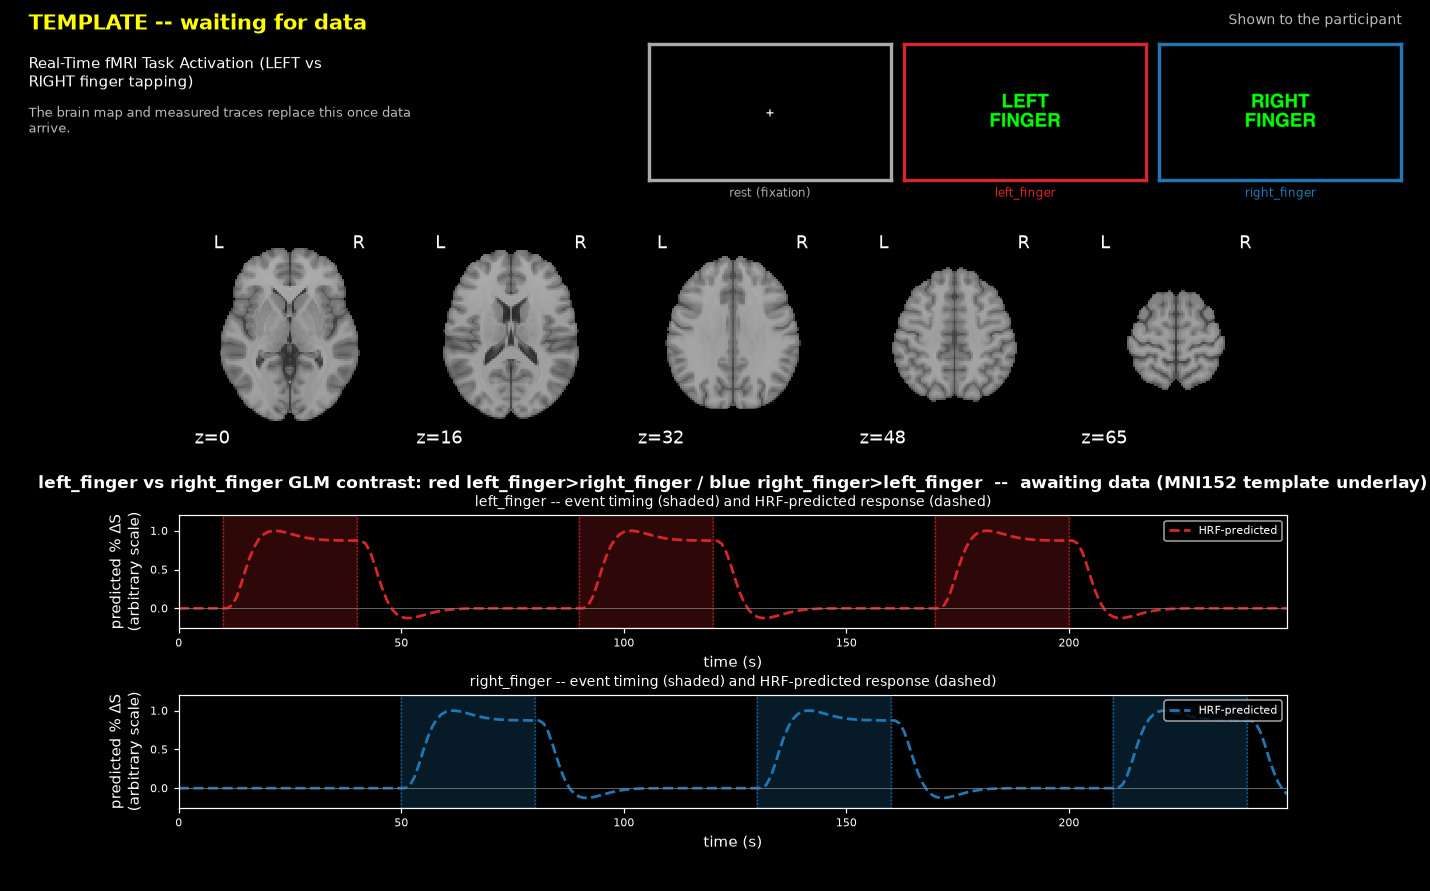
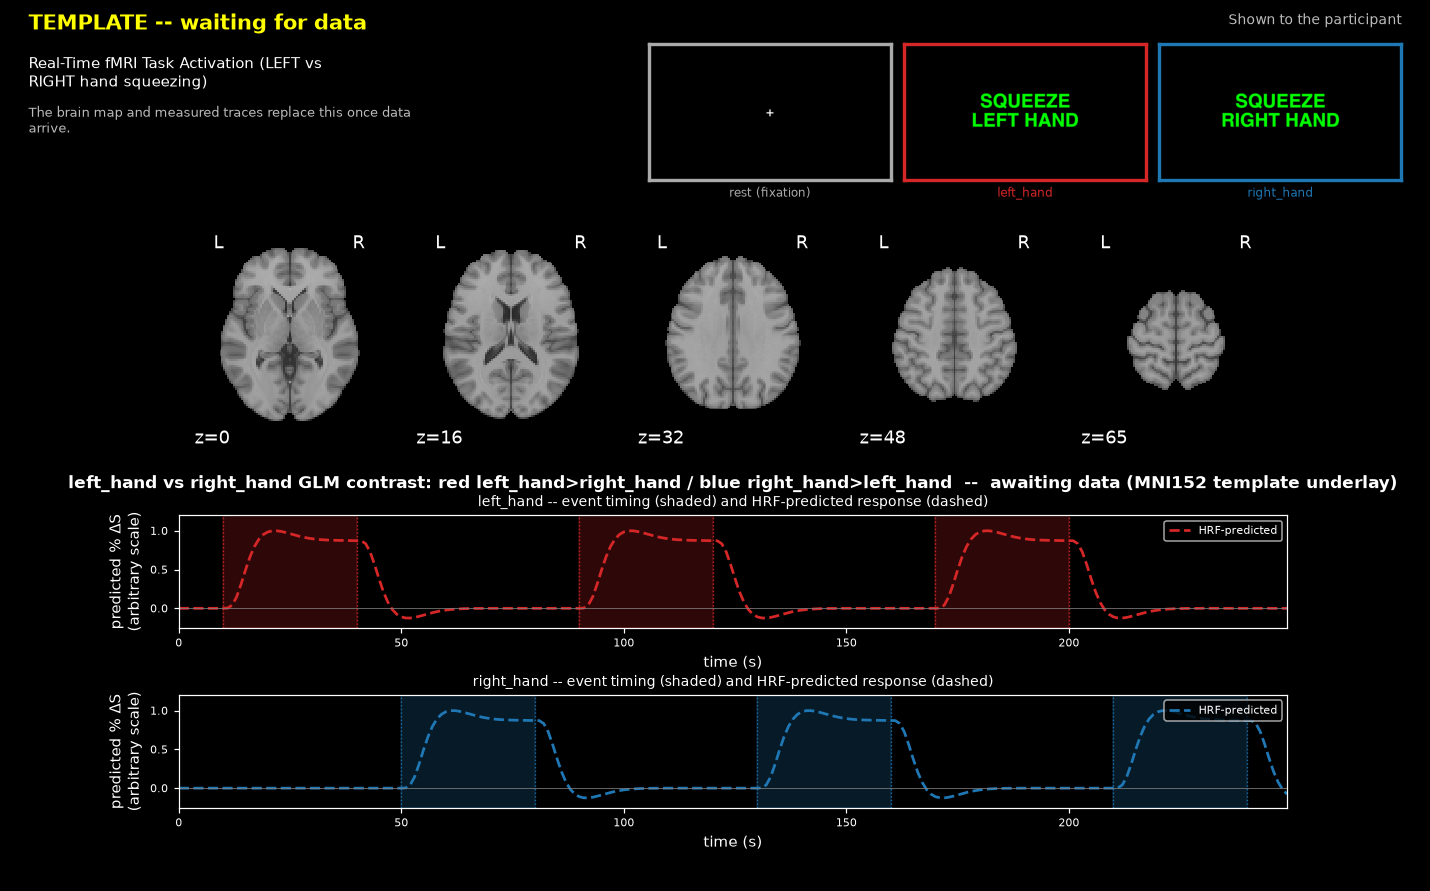
Motor task becomes hand squeezing; checkerboard 2 Hz + fixation wording; run_battery names/end screen
Motor task -> LEFT/RIGHT hand squeezing (stimuli_ptb/motor_task.m,
stimuli/generic_motor_task.py):
- On-screen cues are now "SQUEEZE LEFT HAND" / "SQUEEZE RIGHT HAND" (were
  "LEFT FINGER" / "RIGHT FINGER").
- Instructions rewritten: squeeze the indicated hand into a fist like a
  stress ball, then relax it, repeatedly, for as long as the cue stays on
  screen; relax when the + fixation cross shows. Title is now "LEFT/RIGHT
  HAND SQUEEZING TASK" (the old "FINGER TAPPING" title would contradict the
  body). The other tasks' instruction titles are unchanged.
- Docs/config descriptions updated to match (README.md, quickstart.sh,
  run_task.py, conf/motor.toml, stimuli*/README.md, obsolete/README.md).

Internal condition names renamed left_finger/right_finger ->
left_hand/right_hand: the trial_type column in
study_design/GenericMotorLR_events.tsv, glmCondA/glmCondB in
conf/motor.toml, both stimulus scripts' cue lookups, the snapshot
generator/template builder, and the two motor snapshot filenames. Verified
every event type has a cue in both toolkits' scripts, the design classifies
as interest=[left_hand, right_hand] with no covariates, and the mock scanner
reports condA=left_hand condB=right_hand. Live plot labels and template
trace titles now read left_hand/right_hand. (Untracked scratch files that
still use the old names are intentionally untouched.)

checkerboard_1cond instructions (stimuli_ptb/checkerboard_1cond_task.m,
[…]

diff --git a/taskActivation/stimuli_ptb/run_battery.m b/taskActivation/stimuli_ptb/run_battery.m
@@ -27,15 +27,21 @@ function run_battery(tasks, varargin)
 %     'SkipSyncTests'  true to disable PTB's flip-timing sync tests, for
 %                      testing on a non-research display (default false)
 %     'StagingMessage' sprintf template for the between-tasks screen, with
-%                      one %s for the upcoming task's name (default:
-%                      'Up next: %s (i of N)\n\nExperimenter: press SPACE
-%                      to continue.').
+%                      one %s for the upcoming task's participant-facing name
+%                      (see display_name() at the bottom of this file:
+%                      'Visual Perception Task' for the checkerboard tasks,
+%                      'Voluntary Movement Task' for motor_task, 'Blackjack
+%                      Game' for blackjack_task) (default: 'Up next: %s
+%                      (i of N)\n\nExperimenter: press SPACE to continue.').
 %
 %   Shows the staging screen BEFORE every task, including the first -- so
 %   the experimenter always has a controlled moment to hit SPACE right
 %   before a task starts, rather than it auto-starting the instant
 %   run_battery is called. Escape at any staging screen stops the whole
-%   battery early (the already-open window is still closed cleanly). The
+%   battery early (the already-open window is still closed cleanly). After
+%   the LAST task, an end screen -- "All tasks complete. Experimenter: press
+%   SPACE to exit." -- holds until SPACE (or Escape) is pressed, then the
+%   window closes; it is not shown when the battery is stopped early. The
 %   window itself is opened ONCE at the start and closed ONCE at the end
 %   (or on an aborted battery/any error), never in between -- that's the
 %   whole point of this script over calling each task function directly.
@@ -73,13 +79,14 @@ function run_battery(tasks, varargin)
     for i = 1:numel(tasks)
         fn = tasks{i}{1};
         args = tasks{i}{2};
-        taskName = func2str(fn);
+        taskName = func2str(fn);           % function name -- used in the console log lines
+        shownName = display_name(taskName);   % participant-facing name -- used on the staging screen
 
         if isempty(opt.StagingMessage)
             msg = sprintf('Up next: %s  (%d of %d)\n\nExperimenter: press SPACE to continue.', ...
-                taskName, i, numel(tasks));
+                shownName, i, numel(tasks));
         else
-            msg = sprintf(opt.StagingMessage, taskName);
+            msg = sprintf(opt.StagingMessage, shownName);
         end
         if ptb_show_staging_screen(win, msg)
             fprintf('[run_battery] stopped before task %d/%d (%s).\n', i, numel(tasks), taskName);
@@ -90,9 +97,31 @@ function run_battery(tasks, varargin)
         fn(args{:}, 'Win', win);
     end
 
+    % end screen -- held until the experimenter presses SPACE, so the display (and
+    % the last task's screen) doesn't vanish the instant the final task ends
+    ptb_show_staging_screen(win, sprintf('All tasks complete.\n\nExperimenter: press SPACE to exit.'));
+
     plural = '';
     if numel(tasks) ~= 1
         plural = 's';
     end
     fprintf('[run_battery] battery complete (%d task%s).\n', numel(tasks), plural);
+end
+
+
+function name = display_name(fnName)
+%DISPLAY_NAME Participant-facing name for a task function, shown on the
+%   staging screen instead of the raw function name. To rename a task, or add
+%   a new one, edit the cases below; anything not listed falls back to its
+%   function name.
+    switch fnName
+        case {'checkerboard_1cond_task', 'checkerboard_2cond_task', 'checkerboard_3cond_task'}
+            name = 'Visual Perception Task';
+        case 'motor_task'
+            name = 'Voluntary Movement Task';
+        case 'blackjack_task'
+            name = 'Blackjack Game';
+        otherwise
+            name = fnName;
+    end
 end

diff --git a/taskActivation/stimuli/generic_motor_task.py b/taskActivation/stimuli/generic_motor_task.py
@@ -1,16 +1,17 @@
 #!/usr/bin/env python3
 """-----------------------------------------------------------------------------
 generic_motor_task.py -- simple PsychoPy presentation of this project's own
-LEFT/RIGHT finger-tapping design (study_design/GenericMotorLR_events.tsv,
+LEFT/RIGHT hand-squeezing design (study_design/GenericMotorLR_events.tsv,
 the same file taskActivation.py's live analysis reads via conf/motor.toml),
 so this project's motor task can be run end-to-end with a real (or
 self-triggered) task on the stimulus computer. The Psychtoolbox equivalent
 is stimuli_ptb/motor_task.m -- both present the exact same events.tsv.
 
-Blocks: 30s LEFT FINGER / RIGHT FINGER tapping blocks separated by 10s REST
+Blocks: 30s SQUEEZE LEFT HAND / SQUEEZE RIGHT HAND blocks (squeeze the hand into
+a fist and relax it repeatedly, like squeezing a stress ball) separated by 10s REST
 blocks (3 reps each + a trailing rest block, 250s total) -- exactly
-matching taskActivation.py's GLM design (glmCondA=left_finger,
-glmCondB=right_finger). Unlike the original 5-condition HCP dataset (now
+matching taskActivation.py's GLM design (glmCondA=left_hand,
+glmCondB=right_hand). Unlike the original 5-condition HCP dataset (now
 archived in obsolete/stimuli/hcp_motor_task.py), there are no "_cue"
 get-ready periods here -- rest between blocks
 doubles as the get-ready period.
@@ -32,9 +33,9 @@ import common
 HERE = os.path.dirname(os.path.realpath(__file__))
 DEFAULT_EVENTS = os.path.join(common.PROJECT_ROOT, 'study_design', 'GenericMotorLR_events.tsv')
 
-FINGER_LABELS = {
-    'left_finger': 'LEFT\nFINGER',
-    'right_finger': 'RIGHT\nFINGER',
+CUE_LABELS = {
+    'left_hand': 'SQUEEZE\nLEFT HAND',
+    'right_hand': 'SQUEEZE\nRIGHT HAND',
 }
 
 
@@ -44,14 +45,14 @@ def build_stims(win):
     text/geometry each time."""
     from psychopy import visual
     stims = {}
-    for key, label in FINGER_LABELS.items():
+    for key, label in CUE_LABELS.items():
         stims[key] = visual.TextStim(win, text=label, color='lime', bold=True, height=0.14)
     fixation = visual.TextStim(win, text='+', color='white', height=0.1)
     return stims, fixation
 
 
 def main():
-    ap = argparse.ArgumentParser(description='Present the LEFT/RIGHT finger-tapping task (PsychoPy).')
+    ap = argparse.ArgumentParser(description='Present the LEFT/RIGHT hand-squeezing task (PsychoPy).')
     ap.add_argument('--events', default=DEFAULT_EVENTS, help='events.tsv to present')
     ap.add_argument('--trigger-key', default='5,t',
                     help="comma-separated key(s) that start the run (scanner sync pulse, "
@@ -81,11 +82,13 @@ def main():
         return stims.get(trial_type, fixation)
 
     instructions = (
-        "LEFT/RIGHT FINGER TAPPING TASK\n\n"
-        "When you see LEFT FINGER, repeatedly tap your left thumb and index finger "
-        "together. When you see RIGHT FINGER, do the same with your right thumb and "
-        "index finger. During the + fixation cross, relax and stay still.\n\n"
-        "Goal: keep tapping steadily for the whole block shown, using the correct hand.\n\n"
+        "LEFT/RIGHT HAND SQUEEZING TASK\n\n"
+        "When you see SQUEEZE LEFT HAND, squeeze your left hand into a fist, like you "
+        "are squeezing a stress ball, then relax it. Keep squeezing and relaxing "
+        "repeatedly for as long as the cue stays on the screen. When you see SQUEEZE "
+        "RIGHT HAND, do the same with your right hand. When you see the + fixation "
+        "cross, relax your hands and stay still.\n\n"
+        "Goal: squeeze and relax steadily for the whole block shown, using the correct hand.\n\n"
         "If you have any questions, ask the experimenter now. When you are "
         "comfortable, press any button to continue.")
     if common.show_instructions(win, instructions):

diff --git a/taskActivation/stimuli_ptb/motor_task.m b/taskActivation/stimuli_ptb/motor_task.m
@@ -1,14 +1,15 @@
 function motor_task(varargin)
-%MOTOR_TASK Psychtoolbox presentation of a simple L/R-finger motor task.
+%MOTOR_TASK Psychtoolbox presentation of a simple L/R-hand squeezing task.
 %   MOTOR_TASK() shows a brief task-instructions screen (dismiss with 1/2,
 %   or Escape to abort), waits for the scanner trigger, then presents alternating
-%   30-second LEFT FINGER / RIGHT FINGER tapping blocks separated by 10s
+%   30-second SQUEEZE LEFT HAND / SQUEEZE RIGHT HAND blocks (squeeze the hand
+%   into a fist and relax it, repeatedly, like squeezing a stress ball) separated by 10s
 %   REST blocks (../study_design/GenericMotorLR_events.tsv: rest,
-%   left_finger, rest, right_finger, x3, + a trailing rest block -- 13
+%   left_hand, rest, right_hand, x3, + a trailing rest block -- 13
 %   blocks, 250s total). Matches this project's real-time GLM contrast
 %   convention: point
 %   taskActivation.toml's eventsFile at GenericMotorLR_events.tsv and set
-%   glmCondA='left_finger', glmCondB='right_finger' to analyze it live.
+%   glmCondA='left_hand', glmCondB='right_hand' to analyze it live.
 %
 %   Name-value options (all optional):
 %     'TriggerKey'    cellstr of trigger keys (default {'5','5%','t'} -- '5%'
@@ -76,7 +77,7 @@ function motor_task(varargin)
                          % closing it is the caller's job, not this task's
     end
 
-    labels = struct('left_finger', 'LEFT\nFINGER', 'right_finger', 'RIGHT\nFINGER');
+    labels = struct('left_hand', 'SQUEEZE\nLEFT HAND', 'right_hand', 'SQUEEZE\nRIGHT HAND');
 
     function stimFor(win, trialType, ~, ~)
         if isfield(labels, trialType)
@@ -86,11 +87,13 @@ function motor_task(varargin)
         end
     end
 
-    instructions = ['LEFT/RIGHT FINGER TAPPING TASK\n\n' ...
-        'When you see LEFT FINGER, repeatedly tap your left thumb and index finger ' ...
-        'together. When you see RIGHT FINGER, do the same with your right thumb and ' ...
-        'index finger. During the + fixation cross, relax and stay still.\n\n' ...
-        'Goal: keep tapping steadily for the whole block shown, using the correct hand.\n\n' ...
+    instructions = ['LEFT/RIGHT HAND SQUEEZING TASK\n\n' ...
+        'When you see SQUEEZE LEFT HAND, squeeze your left hand into a fist, like you ' ...
+        'are squeezing a stress ball, then relax it. Keep squeezing and relaxing ' ...
+        'repeatedly for as long as the cue stays on the screen. When you see SQUEEZE ' ...
+        'RIGHT HAND, do the same with your right hand. When you see the + fixation ' ...
+        'cross, relax your hands and stay still.\n\n' ...
+        'Goal: squeeze and relax steadily for the whole block shown, using the correct hand.\n\n' ...
         'If you have any questions, ask the experimenter now. When you are ' ...
         'comfortable, press any button to continue.'];
     if ptb_show_instructions(win, instructions)

diff --git a/taskActivation/stimuli_ptb/checkerboard_1cond_task.m b/taskActivation/stimuli_ptb/checkerboard_1cond_task.m
@@ -20,7 +20,7 @@ function checkerboard_1cond_task(varargin)
 %     'Duration'      total run length in seconds (default: end of the last
 %                     event); pass nVols*TR to also show trailing rest
 %     'FlickerHz'     how many times per second the checkerboard's state
-%                     changes during ON blocks (default 8): the sequence is
+%                     changes during ON blocks (default 2): the sequence is
 %                     OFF (blank) -> ON (pattern A) -> OFF -> ON (pattern B,
 %                     the black<->white inverse of A) -> repeat, each state
 %                     lasting 1/FlickerHz -- so the same screen location
@@ -54,7 +54,7 @@ function checkerboard_1cond_task(varargin)
     addParameter(p, 'TriggerKey', {'5', '5%', 't'});
     addParameter(p, 'EventsFile', fullfile(here, '..', 'study_design', 'Checkerboard1Cond_events.tsv'));
     addParameter(p, 'Duration', []);
-    addParameter(p, 'FlickerHz', 8);
+    addParameter(p, 'FlickerHz', 2);
     addParameter(p, 'Windowed', false);
     addParameter(p, 'ScreenWidth', []);
     addParameter(p, 'ScreenHeight', []);
@@ -125,9 +125,12 @@ function checkerboard_1cond_task(varargin)
     instructions = ['CHECKERBOARD VIEWING TASK\n\n' ...
         'You will see a flickering black-and-white checkerboard pattern, alternating ' ...
         'with a plain + fixation cross.\n\n' ...
-        'Goal: simply keep your eyes open and look at the checkerboard while it is ' ...
-        'on screen, and rest your eyes on the + cross in between. No response or ' ...
-        'button press is needed during the task -- just watch and stay still.\n\n' ...
+        'Goal: keep your eyes fixed on the CENTER of the screen THE WHOLE TIME -- on ' ...
+        'the + cross when it is showing, and on the center of the checkerboard while ' ...
+        'it is on screen. Do not let your eyes wander around the checkerboard or look ' ...
+        'away from the center, even though the pattern is flickering. No response or ' ...
+        'button press is needed during the task -- just keep your eyes on the center ' ...
+        'and stay still.\n\n' ...
         'If you have any questions, ask the experimenter now. When you are ' ...
         'comfortable, press any button to continue.'];
     if ptb_show_instructions(win, instructions)

diff --git a/taskActivation/stimuli/checkerboard_1cond_task.py b/taskActivation/stimuli/checkerboard_1cond_task.py
@@ -75,9 +75,9 @@ def main():
     ap.add_argument('--duration', type=float, default=None,
                     help='total run length in seconds (default: end of the last event); '
                          'pass nVols*TR to also show trailing rest')
-    ap.add_argument('--flicker-hz', type=float, default=8.0,
+    ap.add_argument('--flicker-hz', type=float, default=2.0,
                     help='how many times per second the checkerboard changes state during ON '
-                         'blocks (default 8): OFF (blank) -> ON (pattern A) -> OFF -> ON '
+                         'blocks (default 2): OFF (blank) -> ON (pattern A) -> OFF -> ON '
                          '(pattern B, the black<->white inverse of A) -> repeat, each state '
                          'lasting 1/flicker_hz -- so the same screen location genuinely goes '
                          'black, then white, then black, rather than swapping directly between '
@@ -121,9 +121,12 @@ def main():
         "CHECKERBOARD VIEWING TASK\n\n"
         "You will see a flickering black-and-white checkerboard pattern, alternating "
         "with a plain + fixation cross.\n\n"
-        "Goal: simply keep your eyes open and look at the checkerboard while it is "
-        "on screen, and rest your eyes on the + cross in between. No response or "
-        "button press is needed during the task -- just watch and stay still.\n\n"
+        "Goal: keep your eyes fixed on the CENTER of the screen THE WHOLE TIME -- on "
+        "the + cross when it is showing, and on the center of the checkerboard while "
+        "it is on screen. Do not let your eyes wander around the checkerboard or look "
+        "away from the center, even though the pattern is flickering. No response or "
+        "button press is needed during the task -- just keep your eyes on the center "
+        "and stay still.\n\n"
         "If you have any questions, ask the experimenter now. When you are "
         "comfortable, press any button to continue.")
     if common.show_instructions(win, instructions):

diff --git a/taskActivation/stimuli_ptb/checkerboard_3cond_task.m b/taskActivation/stimuli_ptb/checkerboard_3cond_task.m
@@ -33,7 +33,7 @@ function checkerboard_3cond_task(varargin)
 %     'Duration'      total run length in seconds (default: end of the last
 %                     event); pass nVols*TR to also show trailing rest
 %     'FlickerHz'     how many times per second the checkerboard's state
-%                     changes during a CENTER/LEFT/RIGHT block (default 8):
+%                     changes during a CENTER/LEFT/RIGHT block (default 2):
 %                     OFF (blank) -> ON (pattern A) -> OFF -> ON (pattern
 %                     B, the black<->white inverse of A) -> repeat, each
 %                     state lasting 1/FlickerHz -- same semantics as
@@ -65,7 +65,7 @@ function checkerboard_3cond_task(varargin)
     addParameter(p, 'TriggerKey', {'5', '5%', 't'});
     addParameter(p, 'EventsFile', fullfile(here, '..', 'study_design', 'Checkerboard3Cond_events.tsv'));
     addParameter(p, 'Duration', []);
-    addParameter(p, 'FlickerHz', 8);
+    addParameter(p, 'FlickerHz', 2);
     addParameter(p, 'Windowed', false);
     addParameter(p, 'ScreenWidth', []);
     addParameter(p, 'ScreenHeight', []);

diff --git a/taskActivation/stimuli_ptb/checkerboard_2cond_task.m b/taskActivation/stimuli_ptb/checkerboard_2cond_task.m
@@ -35,7 +35,7 @@ function checkerboard_2cond_task(varargin)
 %     'Duration'      total run length in seconds (default: end of the last
 %                     event); pass nVols*TR to also show trailing rest
 %     'FlickerHz'     how many times per second the checkerboard's state
-%                     changes during a LEFT/RIGHT block (default 8): OFF
+%                     changes during a LEFT/RIGHT block (default 2): OFF
 %                     (blank) -> ON (pattern A) -> OFF -> ON (pattern B,
 %                     the black<->white inverse of A) -> repeat, each
 %                     state lasting 1/FlickerHz -- same semantics as
@@ -67,7 +67,7 @@ function checkerboard_2cond_task(varargin)
     addParameter(p, 'TriggerKey', {'5', '5%', 't'});
     addParameter(p, 'EventsFile', fullfile(here, '..', 'study_design', 'Checkerboard2Cond_events.tsv'));
     addParameter(p, 'Duration', []);
-    addParameter(p, 'FlickerHz', 8);
+    addParameter(p, 'FlickerHz', 2);
     addParameter(p, 'Windowed', false);
     addParameter(p, 'ScreenWidth', []);
     addParameter(p, 'ScreenHeight', []);

diff --git a/taskActivation/stimuli/checkerboard_3cond_task.py b/taskActivation/stimuli/checkerboard_3cond_task.py
@@ -132,9 +132,9 @@ def main():
     ap.add_argument('--duration', type=float, default=None,
                     help='total run length in seconds (default: end of the last event); '
                          'pass nVols*TR to also show trailing rest')
-    ap.add_argument('--flicker-hz', type=float, default=8.0,
+    ap.add_argument('--flicker-hz', type=float, default=2.0,
                     help='how many times per second the checkerboard changes state during a '
-                         'CENTER/LEFT/RIGHT block (default 8): OFF (blank) -> ON (pattern A) -> '
+                         'CENTER/LEFT/RIGHT block (default 2): OFF (blank) -> ON (pattern A) -> '
                          'OFF -> ON (pattern B, the black<->white inverse of A) -> repeat, each '
                          'state lasting 1/flicker_hz -- same semantics as checkerboard_1cond_task.py')
     ap.add_argument('--windowed', action='store_true', help='windowed instead of fullscreen')

diff --git a/taskActivation/stimuli/checkerboard_2cond_task.py b/taskActivation/stimuli/checkerboard_2cond_task.py
@@ -125,9 +125,9 @@ def main():
     ap.add_argument('--duration', type=float, default=None,
                     help='total run length in seconds (default: end of the last event); '
                          'pass nVols*TR to also show trailing rest')
-    ap.add_argument('--flicker-hz', type=float, default=8.0,
+    ap.add_argument('--flicker-hz', type=float, default=2.0,
                     help='how many times per second the checkerboard changes state during a '
-                         'LEFT/RIGHT block (default 8): OFF (blank) -> ON (pattern A) -> OFF -> '
+                         'LEFT/RIGHT block (default 2): OFF (blank) -> ON (pattern A) -> OFF -> '
                          'ON (pattern B, the black<->white inverse of A) -> repeat, each state '
                          'lasting 1/flicker_hz -- same semantics as checkerboard_1cond_task.py')
     ap.add_argument('--windowed', action='store_true', help='windowed instead of fullscreen')

diff --git a/taskActivation/utils/make_templates.py b/taskActivation/utils/make_templates.py
@@ -47,8 +47,8 @@ OUT_DIR = os.path.join(PROJECT_ROOT, 'templates')
 # A screen whose stem is a GLM condition takes that condition's trace colour; the
 # rest (fixation, the blackjack decision screen, tie) stay gray.
 PANELS = {
-    'motor': [('rest', 'rest (fixation)'), ('left_finger', 'left_finger'),
-              ('right_finger', 'right_finger')],
+    'motor': [('rest', 'rest (fixation)'), ('left_hand', 'left_hand'),
+              ('right_hand', 'right_hand')],
     'checkerboard_1cond': [('rest', 'rest (fixation)'), ('checkerboard', 'checkerboard')],
     'checkerboard_2cond': [('rest', 'rest (fixation)'), ('left', 'left'), ('right', 'right')],
     'checkerboard_3cond': [('rest', 'rest (fixation)'), ('center', 'center'),

diff --git a/taskActivation/run_task.py b/taskActivation/run_task.py
@@ -48,7 +48,7 @@ HERE = os.path.dirname(os.path.realpath(__file__))
 
 # name -> (config file, one-line description)
 TASKS = {
-    'motor':           ('motor.toml',           'LEFT vs RIGHT finger tapping'),
+    'motor':           ('motor.toml',           'LEFT vs RIGHT hand squeezing'),
     'checkerboard_1cond': ('checkerboard_1cond.toml', 'flickering checkerboard ON vs OFF'),
     'checkerboard_3cond': ('checkerboard_3cond.toml', 'checkerboard CENTER vs LEFT vs RIGHT (3-way)'),
     'checkerboard_2cond': ('checkerboard_2cond.toml', 'checkerboard LEFT vs RIGHT (no CENTER, shorter run)'),

diff --git a/taskActivation/stimuli/render_snapshots.py b/taskActivation/stimuli/render_snapshots.py
@@ -40,8 +40,8 @@ def snapshots_motor(win, shoot):
     import generic_motor_task
     stims, fixation = generic_motor_task.build_stims(win)
     fixation.draw(); shoot('motor', 'rest')
-    stims['left_finger'].draw(); shoot('motor', 'left_finger')
-    stims['right_finger'].draw(); shoot('motor', 'right_finger')
+    stims['left_hand'].draw(); shoot('motor', 'left_hand')
+    stims['right_hand'].draw(); shoot('motor', 'right_hand')
 
 
 def snapshots_checkerboard_1cond(win, shoot):
